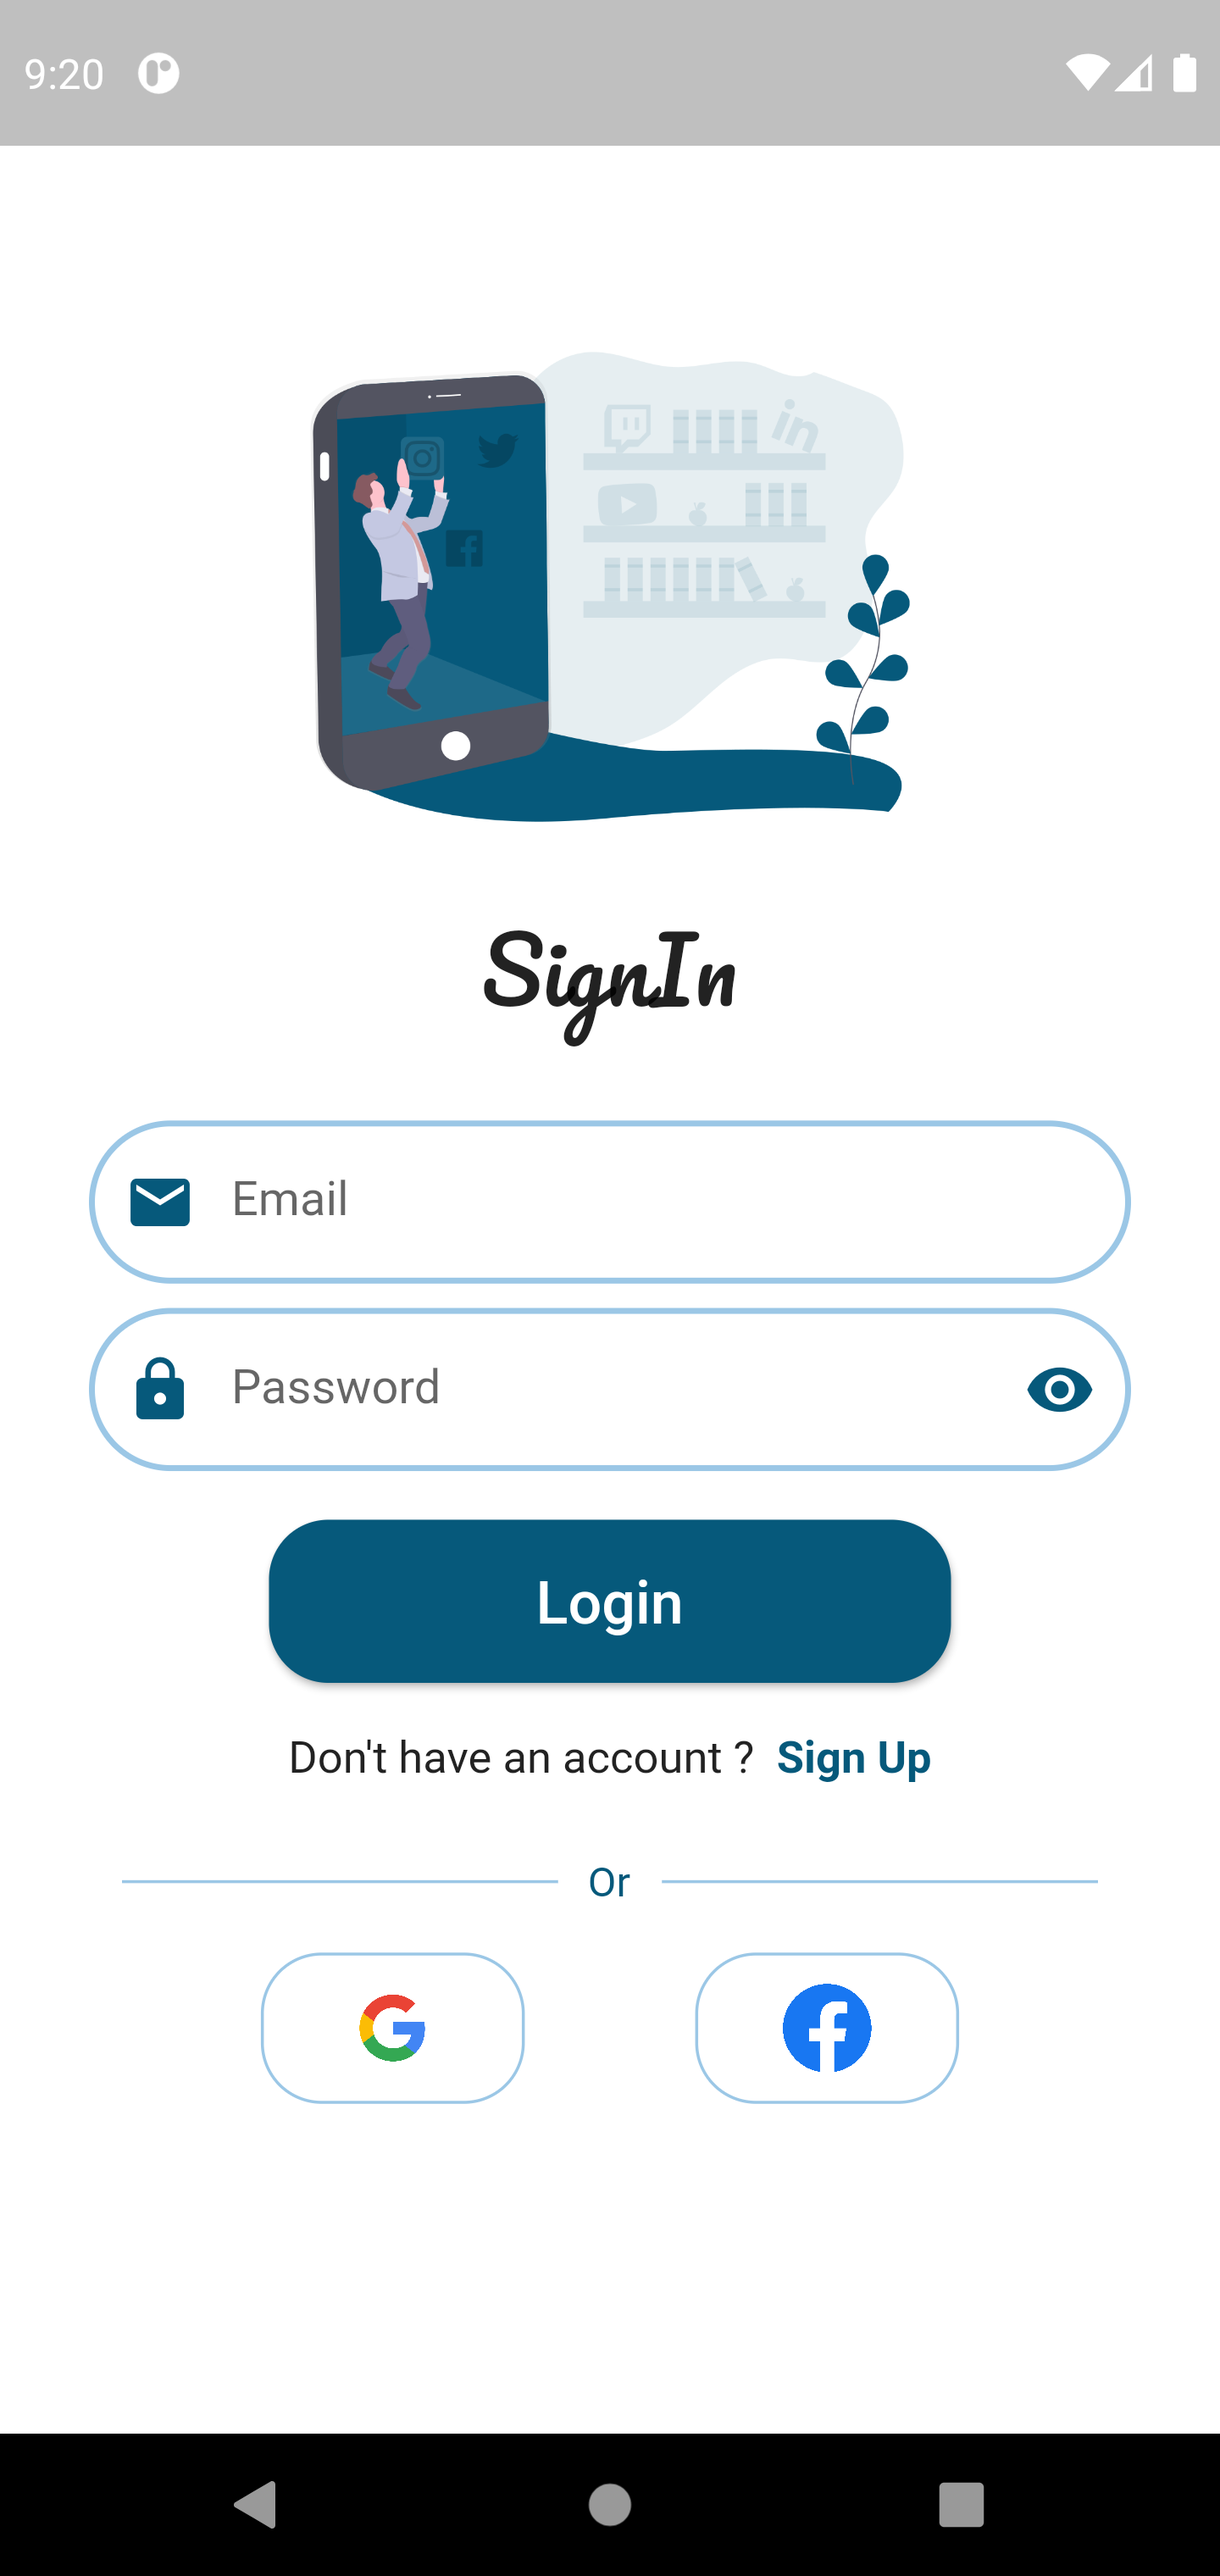
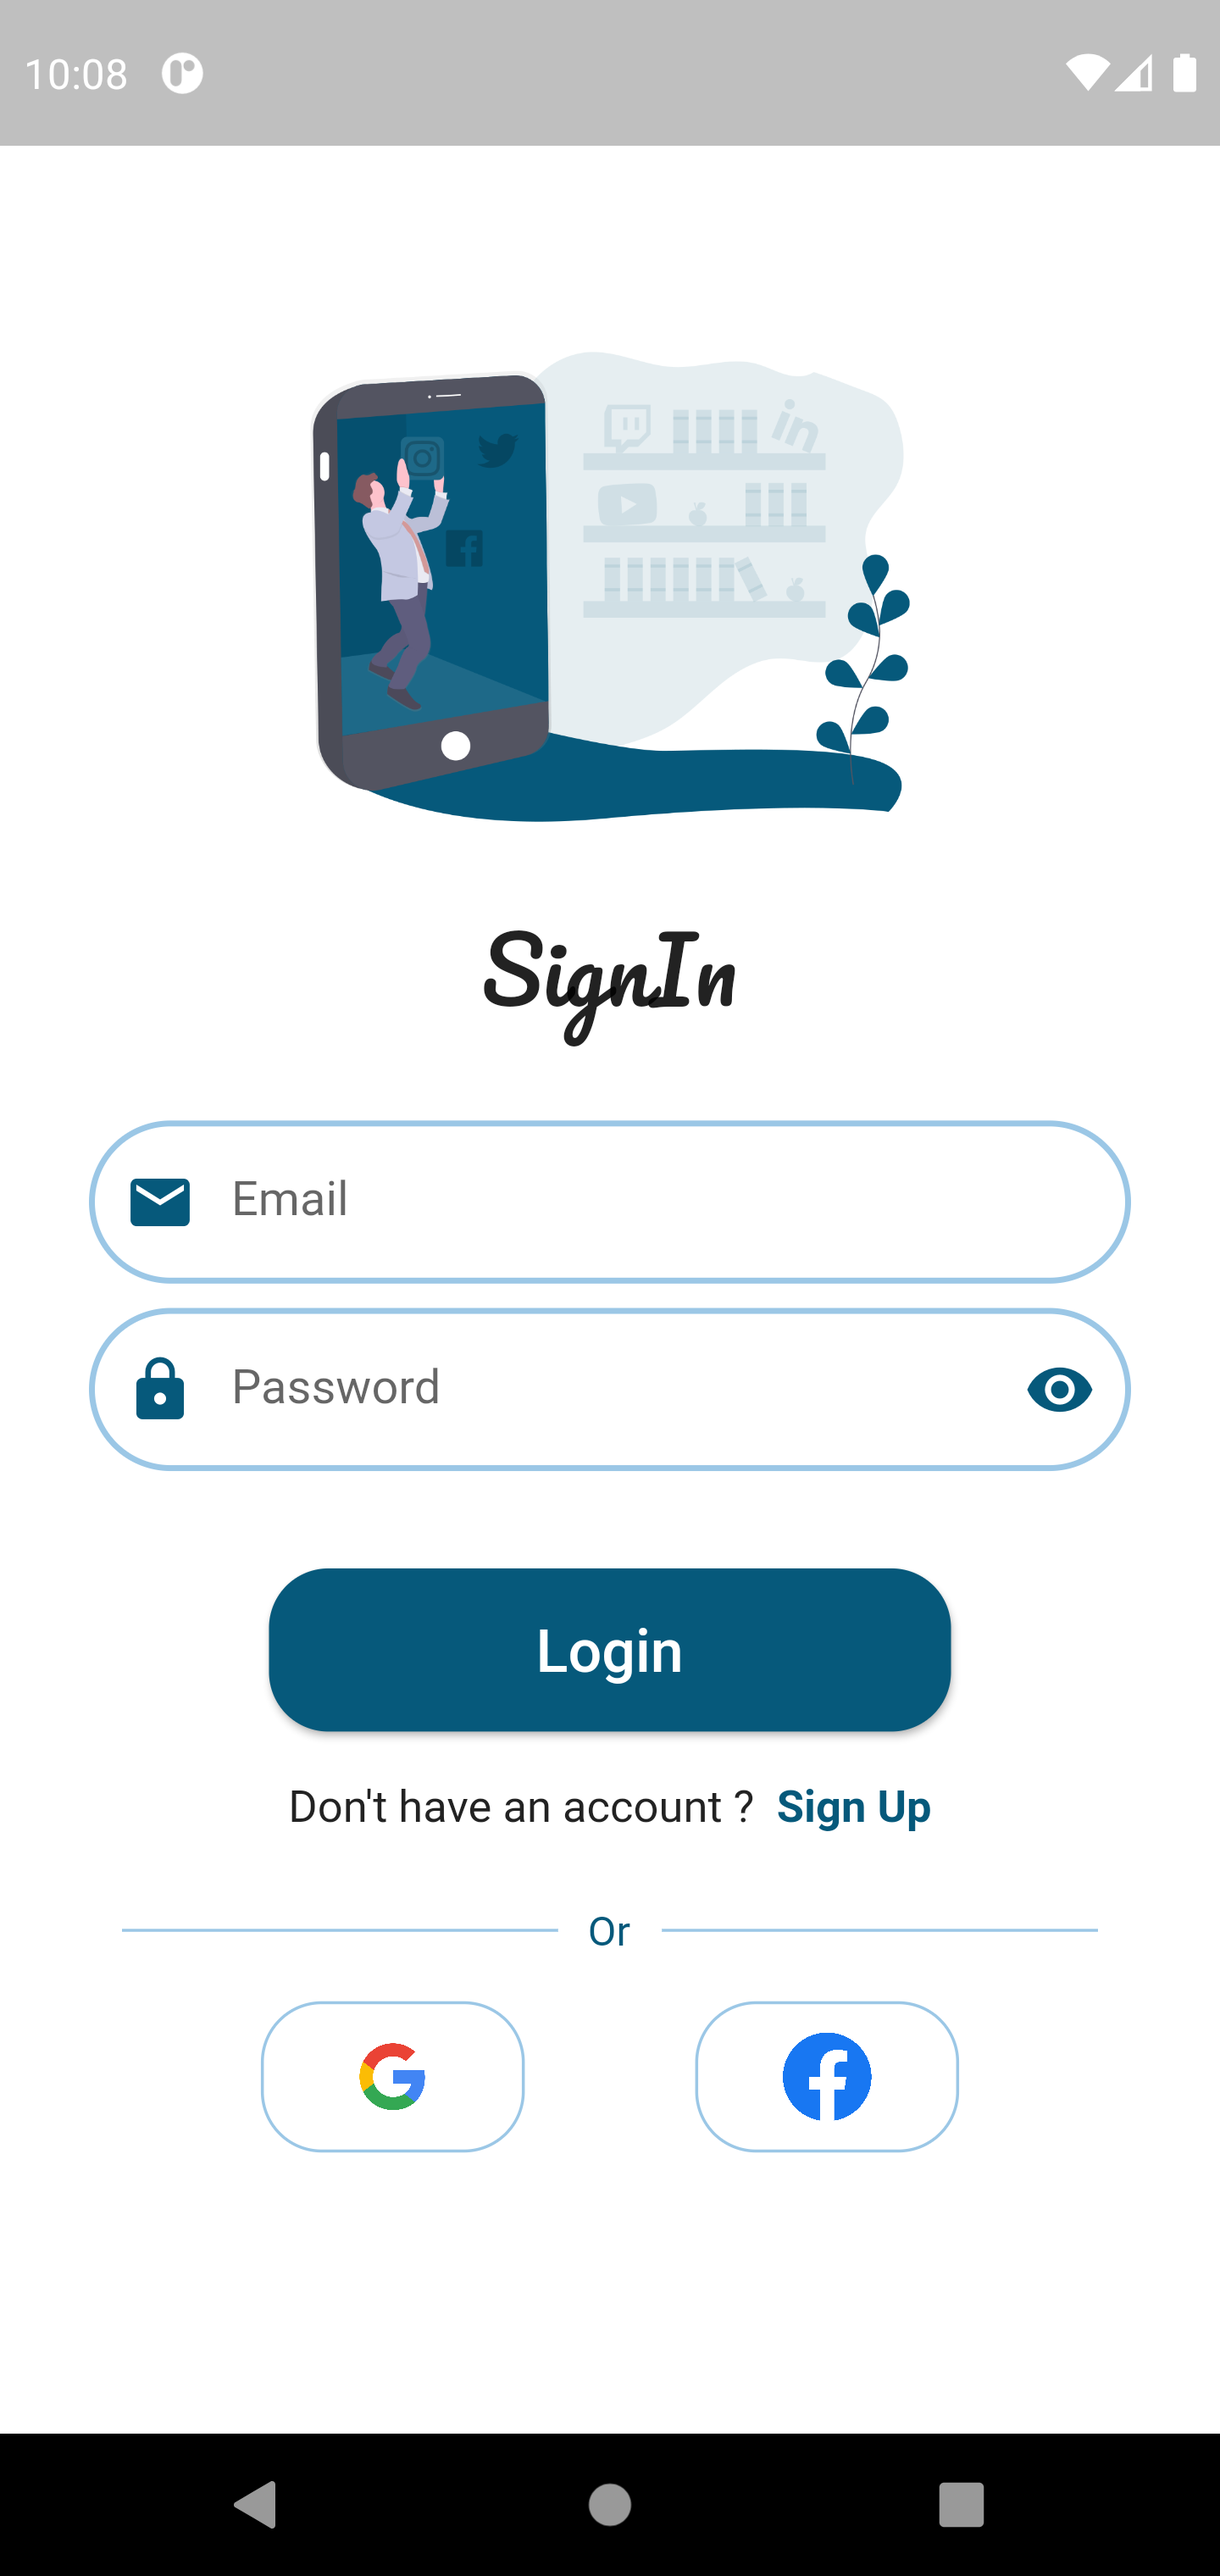
Update

diff --git a/lib/screens/login.dart b/lib/screens/login.dart
@@ -210,7 +210,7 @@ class _LoginScreenState extends State<LoginScreen> {
                       ],
                     ),
                     SizedBox(
-                      height: size.height * 0.02,
+                      height: size.height * 0.04,
                     ),
                     isLoading == false
                         ? MyButton(
